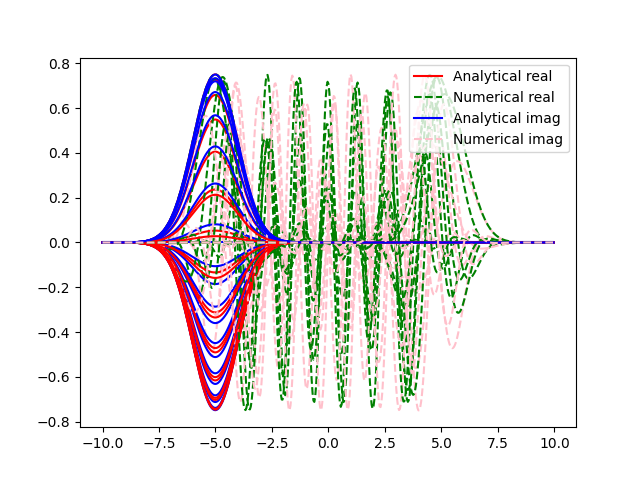
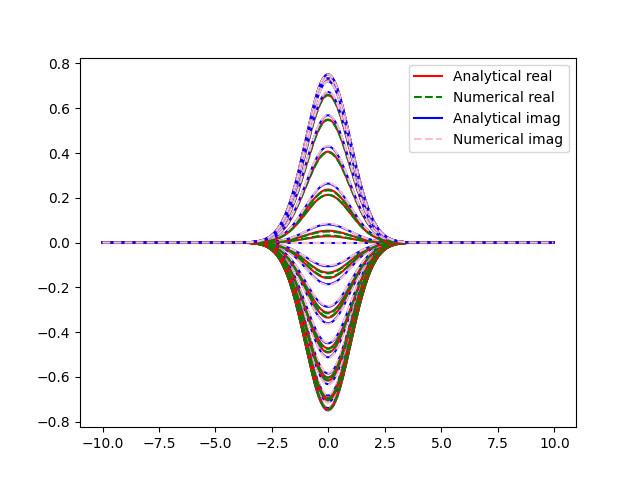
added self.accesible times to the simulation class which prints out for what times we have saved wave fucntion values
added get wave function at time method to simulation class wich anables user to show the wave function at a certain time that is saved within accesible times

Changed region(s): [[0.2188, 0.1562, 0.8438, 0.875], [0.0625, 0.3125, 0.125, 0.3438]]

diff --git a/resources/Classes/Simulation_Class.py b/resources/Classes/Simulation_Class.py
@@ -118,11 +118,16 @@ class Simulation_class:
         self.wave_functions = []  # List to store Wave_function instances
         self.wave_masses = []  # List to store corresponding masses
         self.wave_momenta = []  # List to store corresponding momenta
+        self.wave_omegas = []
 
         # Evolution data storage
         self.total_mass = 0  # Will be updated when wave functions are added
+        self.total_omega = 0
         self.combined_psi = None  # Will be initialized when evolution starts
         self.wave_values = []  # To store evolution snapshots
+
+
+        self.accessible_times = []
 
         # Will be computed before evolution starts
         self.static_potential_propagator = None
@@ -182,7 +187,9 @@ class Simulation_class:
         self.wave_functions.append(wave_function)
         self.wave_masses.append(wave_function.mass)
         self.wave_momenta.append(wave_function.momenta)
+        self.wave_omegas.append(wave_function.omega)
         self.total_mass += wave_function.mass
+        self.total_omega += wave_function.omega
 
         # Log that a wave function was added
         print(f"Added wave function with mass {wave_function.mass}. Total mass: {self.total_mass}")
@@ -313,21 +320,31 @@ class Simulation_class:
 
         return psi
 
-    def evolve(self, save_every=1):
+    def evolve(self, save_every=0):
         """
         Perform the full time evolution for the combined wave function.
 
         Parameters:
-            save_every (int): Frequency of saving the wave function values. Defaults to 1 (saves every step).
+            save_every (int): Frequency of saving the wave function values. Defaults to 0 (saves every step).
 
         Returns:
             None
         """
+
+        if save_every == 0:
+            save_every = 1
+        elif save_every < 0:
+            raise ValueError("save_every must be a non-negative integer. Raised in Simulation.evolve().")
+        elif save_every > 1:
+            save_every = int(save_every)
+
+
         # Make sure simulation is initialized
         if self.combined_psi is None:
             self.initialize_simulation()
 
         psi = self.combined_psi.copy()  # Work with a copy of the initial state
+        self.accessible_times.append(0)
 
         for step in range(self.num_steps):
             # Perform the evolution step
@@ -335,22 +352,48 @@ class Simulation_class:
                 psi, step_index=step, total_steps=self.num_steps
             )
 
-            # Save the wavefunction at the specified intervals
+            # Save the wave_function at the specified intervals
             if step % save_every == 0 and step > 0:  # Skip step 0 as it was saved during initialization
                 self.wave_values.append(psi.copy())
+                self.accessible_times.append(step * self.h)  # Update the accessible times list
 
             # Free memory when possible
             if step % save_every != 0:
                 cp.get_default_memory_pool().free_all_blocks()
 
-        # Update the final state
+            # Update the final state
         self.combined_psi = psi
 
         # Ensure the last state is saved if it wasn't already
         if (self.num_steps - 1) % save_every != 0:
             self.wave_values.append(psi.copy())
+            self.accessible_times.append(self.total_time)  # Add the final time to the list
 
         # Free GPU memory once the evolution is complete
         cp.get_default_memory_pool().free_all_blocks()
 
         print(f"Evolution completed with {len(self.wave_values)} saved states")
+        print(f"Saved times are {self.accessible_times}")
+
+    def get_wave_function_at_time(self, time):
+        """
+        Retrieve the wave function values at a given time.
+
+        Parameters:
+            time (float): The time at which to retrieve the wave function values.
+
+        Returns:
+            cp.ndarray: The wave function values at the given time.
+
+        Raises:
+            ValueError: If the input time is outside the range of accessible times.
+        """
+        # Check if the input time is within the range of accessible times
+        if time < self.accessible_times[0] or time > self.accessible_times[-1]:
+            raise ValueError("Input time is outside the range of accessible times")
+
+        # Find the closest time in the accessible times list
+        closest_time_index = min(range(len(self.accessible_times)), key=lambda i: abs(self.accessible_times[i] - time))
+
+        # Return the corresponding wave function value
+        return self.wave_values[closest_time_index]

diff --git a/resources/Functions/Schrodinger_eq_functions.py b/resources/Functions/Schrodinger_eq_functions.py
@@ -68,23 +68,23 @@ def energy_nd(n, omega=1, hbar=1):
     return hbar * omega * (sum(n) + len(n) * 0.5)
 
 
-def lin_harmonic_oscillator(wave_function_instance):
+def lin_harmonic_oscillator(simulation_instance):
     """
     Create the wave function psi_0 for an N-dimensional linear harmonic oscillator.
 
     Parameters:
-        wave_function_instance: Wave function parameters from class Wave_function.
+        simulation_instance: Wave function parameters from class Wave_function.
 
     Returns:
         psi_0: The N-dimensional wave function.
     """
     # Extract information from Wave_function params
-    grids = wave_function_instance.grids  # CuPy meshgrids for each dimension
-    dim = wave_function_instance.dim
-    means = wave_function_instance.means
-    dx = wave_function_instance.dx
-    mass = wave_function_instance.mass
-    omega = wave_function_instance.omega
+    grids = simulation_instance.grids  # CuPy meshgrids for each dimension
+    dim = simulation_instance.dim
+    means = simulation_instance.means
+    dx = simulation_instance.dx
+    mass = simulation_instance.mass
+    omega = simulation_instance.omega
     h_bar = 1
 
     quantum_numbers = [0] * dim  # Quantum numbers for each dimension

diff --git a/main.py b/main.py
@@ -24,7 +24,7 @@ sim = Simulation_class(
 
 vlna = Wave_function(
     packet_type="LHO",
-    means=[-5],
+    means=[0],
     st_deviations=[0.1],
     simulation=sim,
     mass=1,
@@ -41,7 +41,7 @@ vlna2 = Wave_function(
     momenta=[0],
 )
 sim.add_wave_function(vlna)
-
+sim.add_wave_function(vlna2)
 
 
 sim.evolve(save_every=50)
@@ -49,7 +49,7 @@ sim.evolve(save_every=50)
 
 
 x_vals = np.linspace(a, b, N, endpoint=False)
-
+'''
 controlled_times = [0,0.5,1,1.5,2,2.5,3,3.5,4,4.5,5,5.5,6,6.5,7,7.5,8,8.5,9,9.5,10]
 for time, index in zip(controlled_times, range(len(controlled_times))):
     print(f"Time: {time}")
@@ -67,8 +67,10 @@ for time, index in zip(controlled_times, range(len(controlled_times))):
     plt.plot(x_vals, num_psi_imag, color='#FFC0CB', linestyle='--')
 
 plt.legend(['Analytical real', 'Numerical real', 'Analytical imag', 'Numerical imag'], loc='upper right')
-plt.savefig(r'plots/LHO_comparison_evolution_in_simulation.png')
-
+plt.show()
+'''
+print(sim.wave_values[0])
+print(sim.get_wave_function_at_time(0.4))
 print("#--------------------------------------------------------------------------#")
 
 '''
